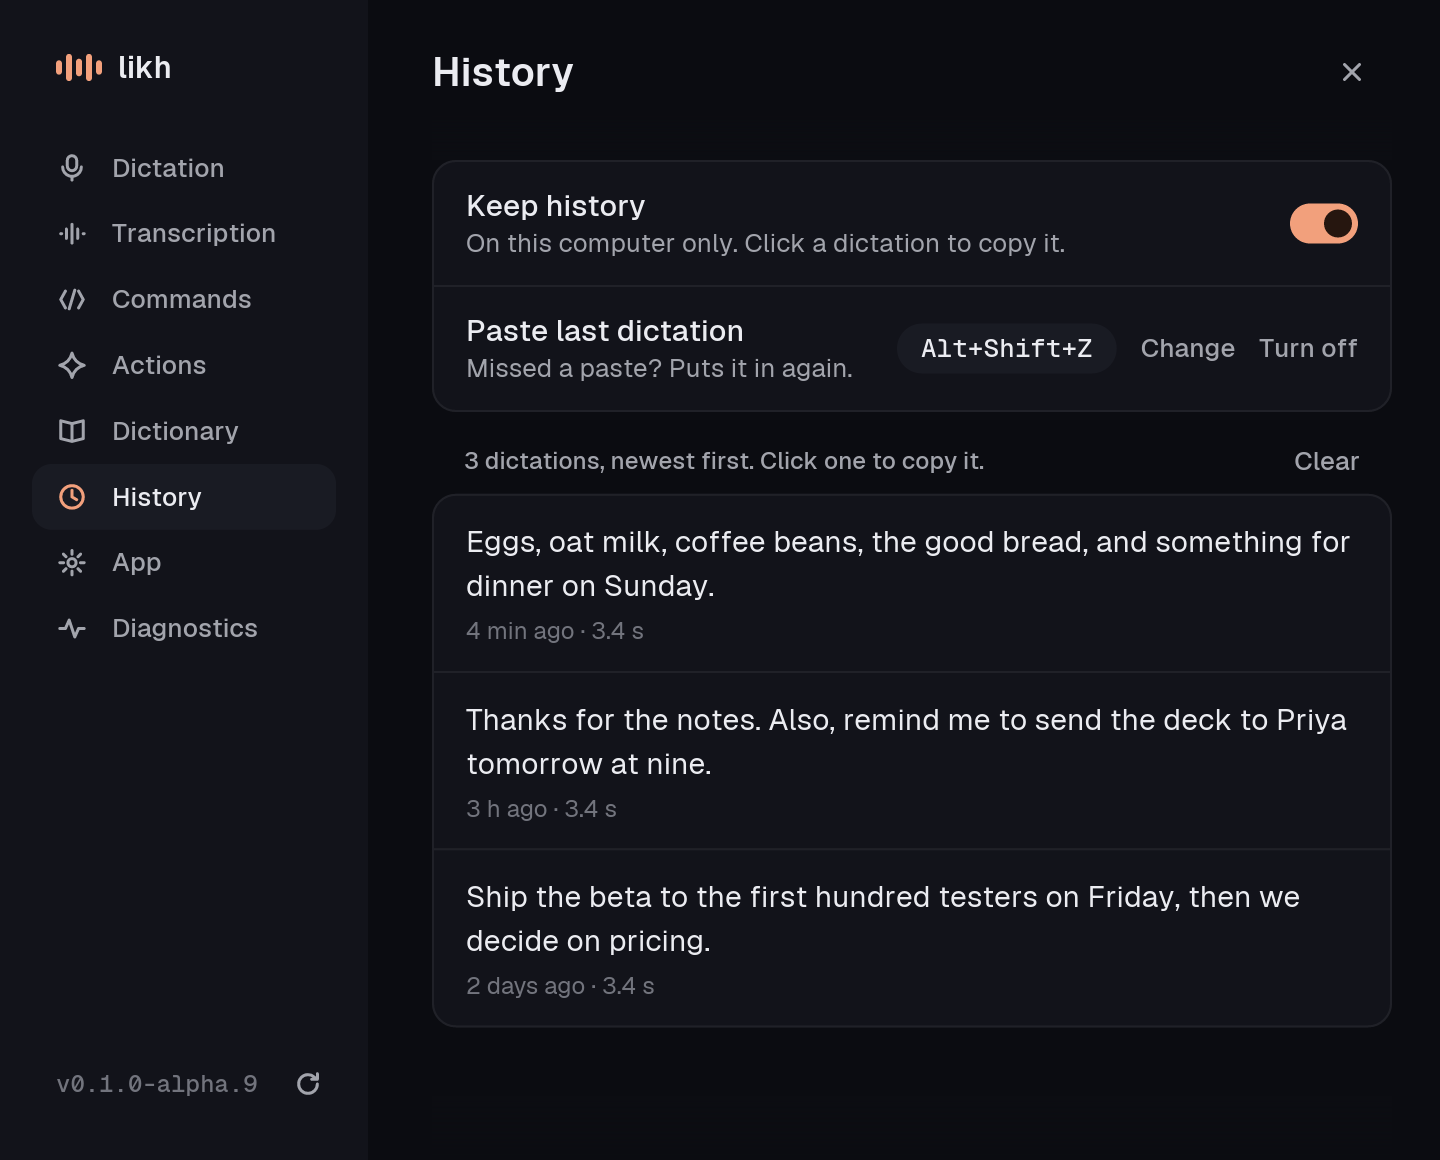
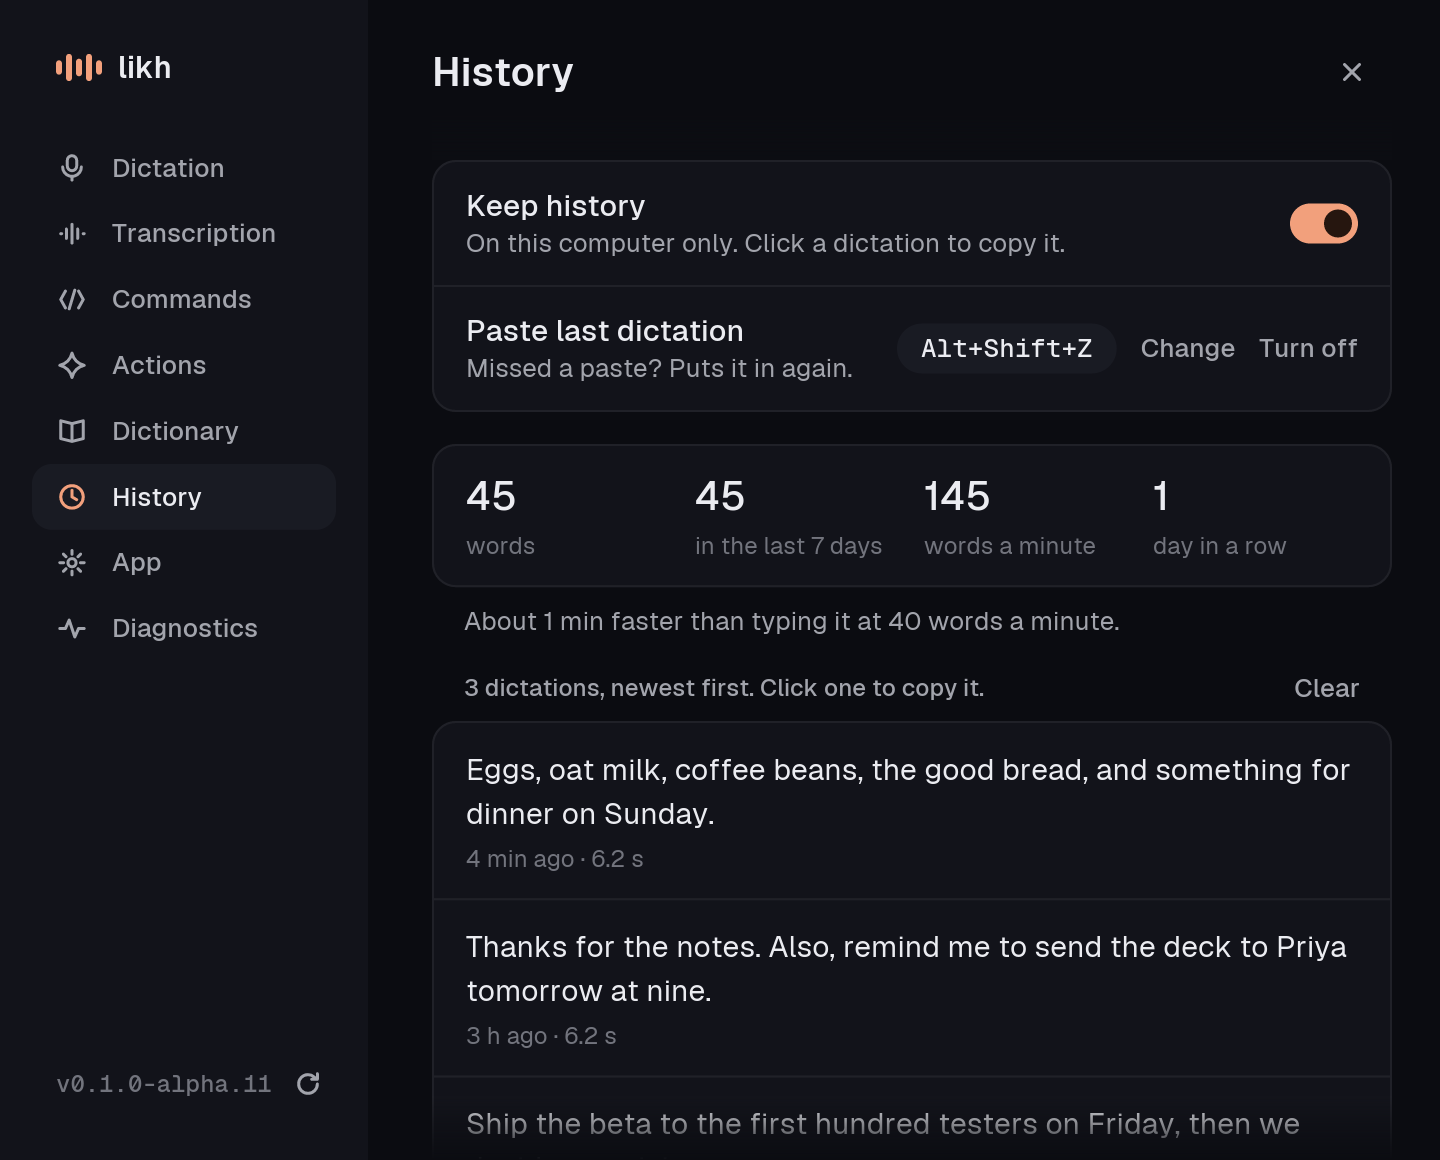
Show words, speed and streak in History
The History tab now sums up every kept dictation: words, words in the
last 7 days, words a minute (pauses included), days in a row, and the
time saved against typing at 40 words a minute. Action presses don't
count, because their text can be what ChatGPT wrote.

The sums come from history.jsonl when the tab opens, so nothing runs
while idle, and Clear wipes them along with the list. Days follow the
computer's time zone (chrono, clock only), so a streak breaks at the
user's midnight.

diff --git a/app/src/panel/mod.rs b/app/src/panel/mod.rs
@@ -224,6 +224,8 @@ pub struct Panel {
     /// What's typed in the dictionary's field, not yet added.
     new_word: String,
     history: Vec<Entry>,
+    /// Summed from the whole history file, not only the entries shown.
+    stats: history::Stats,
     /// "Clear" was pressed once; the next press clears.
     confirm_clear: bool,
     copied: Option<usize>,
@@ -346,6 +348,7 @@ impl Panel {
             notice: None,
             new_word: String::new(),
             history: Vec::new(),
+            stats: history::Stats::default(),
             confirm_clear: false,
             copied: None,
             spin: 0.0,
@@ -394,8 +397,10 @@ impl Panel {
     }
 
     fn load_history(&mut self) {
-        self.history =
-            self.files.history.as_deref().map(|file| history::recent(file, HISTORY_SHOWN)).unwrap_or_default();
+        let all = self.files.history.as_deref().map(|file| history::recent(file, usize::MAX)).unwrap_or_default();
+        let now = SystemTime::now().duration_since(UNIX_EPOCH).map_or(0, |d| d.as_secs());
+        self.stats = history::stats(&all, history::local_day(now), history::local_day);
+        self.history = all.into_iter().take(HISTORY_SHOWN).collect();
         self.copied = None;
         self.confirm_clear = false;
     }
@@ -1403,7 +1408,40 @@ impl Panel {
             .padding(Padding { right: space::S4, ..Padding::ZERO })
             .align_y(Alignment::Center);
         let rows = self.history.iter().enumerate().map(|(i, entry)| self.entry(p, i, entry, now)).collect();
-        column![keep, column![top, group(p, rows)].spacing(space::S2)].spacing(space::S4).into()
+        column![keep, self.stats_figures(p), column![top, group(p, rows)].spacing(space::S2)].spacing(space::S4).into()
+    }
+
+    /// Words, speed and streak across everything kept, and the time it saved over typing.
+    fn stats_figures(&self, p: &Palette) -> Element<'_, Message> {
+        let stats = self.stats;
+        let (ink, subtle) = (p.text, p.text_subtle);
+        let figure = |value: String, what: &'static str| -> Element<'_, Message> {
+            column![
+                text(value).size(size::TITLE).font(theme::UI_MEDIUM).color(ink),
+                text(what).size(size::CAPTION).color(subtle),
+            ]
+            .spacing(space::S1)
+            .width(Length::Fill)
+            .into()
+        };
+        let days = if stats.streak == 1 { "day in a row" } else { "days in a row" };
+        let figures = row![
+            figure(thousands(stats.words), "words"),
+            figure(thousands(stats.words_this_week), "in the last 7 days"),
+            figure(stats.per_minute.map_or("\u{2014}".into(), |n| n.to_string()), "words a minute"),
+            figure(stats.streak.to_string(), days),
+        ]
+        .spacing(space::S3);
+        let mut block = column![group(p, vec![Line::custom(figures.into())])].spacing(space::S2);
+        if stats.minutes_saved > 0 {
+            let saved = format!(
+                "About {} faster than typing it at {:.0} words a minute.",
+                running_for(u64::from(stats.minutes_saved) * 60),
+                history::TYPING_PER_MINUTE
+            );
+            block = block.push(hint(p, &saved));
+        }
+        block.into()
     }
 
     fn entry<'a>(&self, p: &Palette, index: usize, entry: &'a Entry, now: u64) -> Line<'a> {
@@ -1641,6 +1679,19 @@ fn duration(ms: f64) -> String {
 /// `history::ago` for a time in milliseconds.
 fn ago_ms(at_ms: u64, now: u64) -> String {
     history::ago(at_ms / 1000, now)
+}
+
+/// "12,480": digits in groups of three, the way people read counts.
+fn thousands(n: usize) -> String {
+    let digits = n.to_string();
+    let mut grouped = String::new();
+    for (i, digit) in digits.chars().enumerate() {
+        if i > 0 && (digits.len() - i).is_multiple_of(3) {
+            grouped.push(',');
+        }
+        grouped.push(digit);
+    }
+    grouped
 }
 
 /// "45 s", "12 min", "3 h 5 min".

diff --git a/app/src/history/mod.rs b/app/src/history/mod.rs
@@ -65,6 +65,53 @@ pub fn clear(path: &Path) -> Result<(), String> {
     }
 }
 
+/// The typing speed "faster than typing" is measured against: a common average for adults.
+pub const TYPING_PER_MINUTE: f32 = 40.0;
+
+/// What the History tab sums up from every kept dictation.
+#[derive(Debug, Clone, Copy, PartialEq, Default)]
+pub struct Stats {
+    pub words: usize,
+    /// Today and the six days before it.
+    pub words_this_week: usize,
+    /// Words over the minutes recorded, pauses included; None before anything was recorded.
+    pub per_minute: Option<u32>,
+    /// Days in a row with a dictation, up to today. Today without one yet doesn't break it.
+    pub streak: u32,
+    /// Typing the same words at `TYPING_PER_MINUTE`, less the time spent talking.
+    pub minutes_saved: u32,
+}
+
+/// Sums up `entries`. `day_of` turns a Unix time into a day number on the user's calendar, and
+/// `today` is today's. Action presses are left out: their text can be what ChatGPT wrote.
+/// Words are counted by spaces, so Chinese or Japanese without spaces counts low.
+pub fn stats(entries: &[Entry], today: i32, day_of: impl Fn(u64) -> i32) -> Stats {
+    let dictations: Vec<&Entry> = entries.iter().filter(|entry| entry.action.is_none()).collect();
+    let words_in = |entry: &Entry| entry.text.split_whitespace().count();
+    let words: usize = dictations.iter().map(|entry| words_in(entry)).sum();
+    let words_this_week =
+        dictations.iter().filter(|entry| day_of(entry.at) > today - 7).map(|entry| words_in(entry)).sum();
+    let minutes: f32 = dictations.iter().map(|entry| entry.seconds.max(0.0)).sum::<f32>() / 60.0;
+    let per_minute = (minutes > 0.0).then(|| (words as f32 / minutes).round() as u32);
+    let minutes_saved = (words as f32 / TYPING_PER_MINUTE - minutes).max(0.0).round() as u32;
+
+    let days: std::collections::BTreeSet<i32> = dictations.iter().map(|entry| day_of(entry.at)).collect();
+    let mut day = if days.contains(&today) { today } else { today - 1 };
+    let mut streak = 0;
+    while days.contains(&day) {
+        streak += 1;
+        day -= 1;
+    }
+    Stats { words, words_this_week, per_minute, streak, minutes_saved }
+}
+
+/// The day `at` (Unix seconds) falls on in this computer's time zone, as a day number.
+pub fn local_day(at: u64) -> i32 {
+    use chrono::Datelike;
+    let utc = chrono::DateTime::from_timestamp(i64::try_from(at).unwrap_or(0), 0).unwrap_or_default();
+    utc.with_timezone(&chrono::Local).date_naive().num_days_from_ce()
+}
+
 /// "just now", "4 min ago", "2 h ago", "3 days ago".
 pub fn ago(at: u64, now: u64) -> String {
     match now.saturating_sub(at) {

diff --git a/app/src/history/tests.rs b/app/src/history/tests.rs
@@ -66,3 +66,58 @@ fn paste_last_after_a_restart_skips_actions_that_pasted_nothing() {
     assert!(text.lines().next().is_some_and(|first| !first.contains("pasted") && !first.contains("action")));
     assert_eq!(recent(&file, 2)[0].action.as_deref(), Some("New T3 thread"));
 }
+
+const DAY: u64 = 86_400;
+
+/// Day numbers on UTC's calendar, so the tests don't depend on this computer's time zone.
+fn utc_day(at: u64) -> i32 {
+    i32::try_from(at / DAY).expect("small day")
+}
+
+fn said(day: u64, words: &str, seconds: f32) -> Entry {
+    Entry { at: day * DAY + 3600, text: words.into(), seconds, action: None, pasted: true }
+}
+
+#[test]
+fn stats_add_up_words_speed_streak_and_time_saved() {
+    let today = 100;
+    let entries = vec![
+        // Three days in a row ending today, then a gap, then an older day.
+        said(100, "one two three four five six seven eight nine ten", 3.0),
+        said(99, "one two three four five six seven eight nine ten", 3.0),
+        said(98, "one two three four five six seven eight nine ten", 3.0),
+        said(90, "an older one two three four five six seven eight", 3.0),
+        // An action's text is what ChatGPT wrote, not what was said: it counts nowhere.
+        Entry { action: Some("Make this".into()), ..said(100, "a long rewrite that nobody dictated", 2.0) },
+    ];
+    let stats = stats(&entries, today, utc_day);
+    assert_eq!(stats.words, 40);
+    // Day 90 is ten days back, outside the last seven.
+    assert_eq!(stats.words_this_week, 30);
+    // 40 words in 12 seconds.
+    assert_eq!(stats.per_minute, Some(200));
+    assert_eq!(stats.streak, 3);
+    // 40 words take a minute to type at 40 a minute; talking took 12 s of it.
+    assert_eq!(stats.minutes_saved, 1);
+}
+
+#[test]
+fn a_streak_survives_today_until_today_ends() {
+    let entries = vec![said(99, "yesterday", 1.0), said(98, "the day before", 1.0)];
+    assert_eq!(stats(&entries, 100, utc_day).streak, 2);
+    // Two days without one breaks it.
+    assert_eq!(stats(&entries, 101, utc_day).streak, 0);
+}
+
+#[test]
+fn nothing_kept_means_no_speed_and_no_streak() {
+    let stats = stats(&[], 100, utc_day);
+    assert_eq!(stats, Stats { words: 0, words_this_week: 0, per_minute: None, streak: 0, minutes_saved: 0 });
+}
+
+#[test]
+fn local_days_follow_the_calendar() {
+    let now = 1_760_000_000;
+    assert_eq!(local_day(now + DAY) - local_day(now), 1);
+    assert_eq!(local_day(now + 7 * DAY) - local_day(now), 7);
+}

diff --git a/app/src/panel/tests.rs b/app/src/panel/tests.rs
@@ -167,6 +167,35 @@ fn history_lists_newest_first_and_copies_on_click() {
 }
 
 #[test]
+fn history_sums_up_every_kept_dictation_not_only_those_shown() {
+    let _ui = test_ui::lock();
+    let mut f = panel();
+    let file = f.dir.path().join("history.jsonl");
+    let now = SystemTime::now().duration_since(UNIX_EPOCH).map_or(0, |d| d.as_secs());
+    let ten_words = "Send the notes to Priya before the call on Friday.";
+    for _ in 0..HISTORY_SHOWN + 50 {
+        history::append(&file, &Entry { at: now, text: ten_words.into(), seconds: 3.0, action: None, pasted: true })
+            .expect("append");
+    }
+    press(&mut f.panel, "History");
+    assert_eq!(f.panel.history.len(), HISTORY_SHOWN);
+    // 250 dictations of 10 words, 3 s each: 2,500 words in 12.5 minutes, all today.
+    for figure in ["2,500", "words", "in the last 7 days", "200", "words a minute", "1", "day in a row"] {
+        assert!(shows(&f.panel, figure), "no {figure:?} in History");
+    }
+    // Typing 2,500 words at 40 a minute takes 62.5 minutes; talking took 12.5.
+    assert!(shows(&f.panel, "About 50 min faster than typing it at 40 words a minute."));
+}
+
+#[test]
+fn counts_read_in_groups_of_three() {
+    assert_eq!(thousands(0), "0");
+    assert_eq!(thousands(999), "999");
+    assert_eq!(thousands(12_480), "12,480");
+    assert_eq!(thousands(1_000_000), "1,000,000");
+}
+
+#[test]
 fn clearing_history_asks_once_then_clears() {
     let _ui = test_ui::lock();
     let mut f = panel();
@@ -237,7 +266,7 @@ fn brand_board_panel() {
         (3_600 * 3, "Thanks for the notes. Also, remind me to send the deck to Priya tomorrow at nine."),
         (240, "Eggs, oat milk, coffee beans, the good bread, and something for dinner on Sunday."),
     ] {
-        history::append(&file, &Entry { at: now - ago, text: text.into(), seconds: 3.4, action: None, pasted: true })
+        history::append(&file, &Entry { at: now - ago, text: text.into(), seconds: 6.2, action: None, pasted: true })
             .expect("append");
     }
     // A made-up account: the board is public and must never show a real one.

diff --git a/AGENTS.md b/AGENTS.md
@@ -21,7 +21,7 @@ Native dictation for Windows (macOS in alpha). Hold Ctrl+Space, talk, let go, an
 | `app/src/hotkey/` | the shortcut (Ctrl+Space by default), the action key (Ctrl+Shift+Space), paste last (Alt+Shift+Z by default; it waits for its keys to come up before pasting), a mouse button for each recording key (a low-level hook, installed only while one is picked) and Esc: system hotkeys on Windows (`windows.rs`, which also reads the window in front), picking a new one (`capture.rs`) |
 | `app/src/actions/` | custom actions: hold the action key and say one. One TOML file per action in `LIKH_HOME/actions/` (format, starters and the README agents read in `starters/`), exact phrase matching (`matcher.rs`), ChatGPT picking one when nothing matched or a longer phrase stalled on a list name, with the user's dictionary since action presses skip cleanup (`router.rs`), the steps (`steps.rs`: paste, keys, open, wait, ask, run), approval of anything that runs a program (`trust.rs`), one at a time (`runner.rs`). `likh actions check` and `likh actions test "<phrase>"` work without the app. `LIKH_ASK=<text>` fakes `ask`, `LIKH_ROUTER=<file stem>` fakes the router |
 | `app/src/settings/` | what the user chose (shortcut, paste last, mouse button, action key and its mouse button, mode, silence stop, microphone, engine, language, sounds, pause media, commands, dictionary, history, start with Windows), one JSON file. `LIKH_HOME` moves the whole folder |
-| `app/src/history/` | past dictations, one JSON line each, on this computer only. The newest is what paste last pastes after a restart |
+| `app/src/history/` | past dictations, one JSON line each, on this computer only. The newest is what paste last pastes after a restart. The History tab sums them up: words, words a minute, days in a row, time saved over typing |
 | `app/src/commands/` | spoken commands in four groups: lines ("new line", "new bullet"), keys ("press enter", "press tab"), scratch ("scratch that"), punctuation by name (off by default) |
 | `app/src/dictionary/` | the user's own words (project names, people): Groq hears them as its prompt, and `cleanup/` puts misheard ones right |
 | `app/src/cleanup/` | one quick ChatGPT pass after any engine, through Codex's sign-in (`gpt-6-luna` on `/backend-api/codex/responses`): puts misheard dictionary words right, and with Clean up on (Transcription, off by default) drops "um"s, keeps the speaker's corrections and makes spoken lists into lists. Spoken commands must come through word for word, or likh pastes what it heard; so does a failure or a slow answer (4 s, more for long text) |

diff --git a/docs/plan.md b/docs/plan.md
@@ -28,7 +28,7 @@ What we're building, in what order, and how we'll know it works. Decisions made 
 | 6 | Silence stop, a mouse button, more spoken commands, pause media, Groq and Windows speech, all in settings | ✅ silence stop proven end to end (`e2e-dictate.ps1 -LetSilenceStop`). A real Groq key, Windows speech with Online speech recognition on, pausing something that plays, and a physical mouse button still need a person |
 | 7 | Dictionary, no voice heard, paste last, mic picker, language, cleanup (fillers, "actually 3", lists), dictations up to 30 minutes in pieces | 0.1.0-alpha.9 |
 | 8 | Custom actions: the action key (and its mouse button), one TOML file per action, phrases with slots and lists, a ChatGPT fallback that picks one, paste/keys/open/wait/ask/run steps, approving scripts, the Actions tab | |
-| later | Command mode, styles, stats | |
+| later | Command mode, styles | |
 
 ## Measured so far
 
@@ -96,6 +96,7 @@ The two renderers look identical (`.agents/qa/renderer/`). **Implication:** the 
   - Groq as a free engine
 - **Updates (2026-10-12):** from GitHub Releases through the existing Inno installer, Ed25519-signed in `release.yml`, checked at launch and after dictations (never on a timer), applied when the user picks "Restart to update". Velopack would add delta updates but replaces the installer; not worth it at 5 MB. macOS only links to the release.
 - **Done in phase 8 (2026-10-15):** custom actions (`app/src/actions/`). A separate key, because every product that runs free-form commands reliably uses one (Wispr Flow, Dragon's Ctrl, Willow dropped its wake word for a key). Exact phrases first and ChatGPT only on a miss, because routing accuracy falls fast with more choices and exact matching is instant and free. Scripts need a person's approval, because an agent or a shared file can write them (Espanso's threat model).
+- **Done 2026-10-15:** stats in History (words, words a minute, days in a row, time saved against typing at 40 a minute), summed from history.jsonl when the tab opens, so they cost nothing idle and Clear wipes them too.
 - **Next:**
   - offline local model
 - **Later:**
@@ -104,7 +105,6 @@ The two renderers look identical (`.agents/qa/renderer/`). **Implication:** the 
   - per-app styles
   - context from the text around the cursor
   - IDE file tagging
-  - words-per-minute and streak stats
   - whisper mode
 - **Skipped:**
   - accounts
